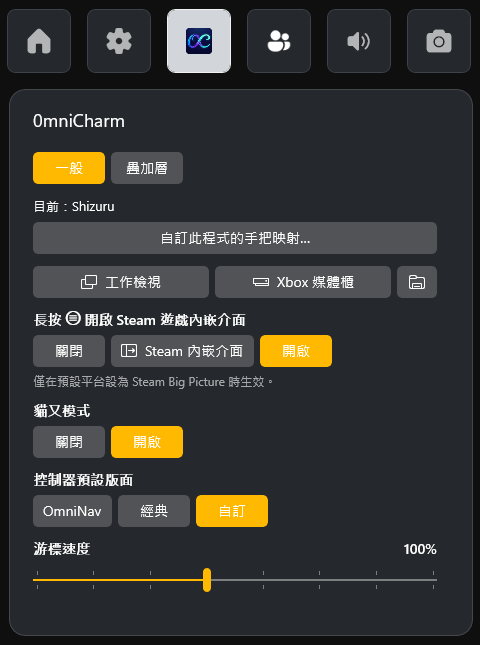
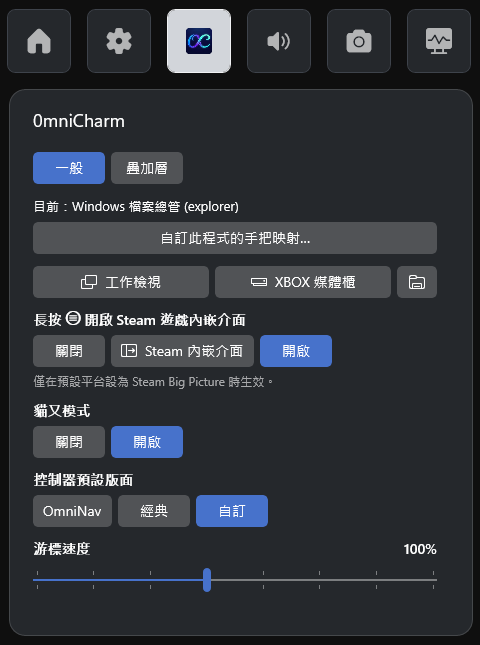
chore: Bump version to 4.5.0.0, add controls for XBOX Mode (FSE) entry & exit prompts, keep Game Bar's cursor in step with Nekomata Mode, match Windows' all-caps XBOX, unify Chinese punctuation, and refresh the READMEs & screenshots

diff --git a/README.md b/README.md
@@ -19,41 +19,41 @@
 
 ## 💡 What is OmniConsole?
 
-OmniConsole serves as your Windows 11 Xbox Mode (FSE) Home shell on PCs and handhelds (ROG Xbox Ally X, etc.), with an OmniCharm Game Bar widget, Steam shortcuts, and Nekomata Mode to turn your gamepad into keyboard and mouse, tailored per app, so everything stays on the gamepad.
+OmniConsole serves as your Windows 11 XBOX Mode (FSE) Home shell on PCs and handhelds (ROG Xbox Ally X, etc.), with an OmniCharm Game Bar widget, Steam shortcuts, and Nekomata Mode to turn your gamepad into keyboard and mouse, tailored per app, so everything stays on the gamepad.
 
-Whenever Xbox Mode (FSE) activates, OmniConsole launches your configured gaming platform. Any platform can be your Xbox Mode (FSE) Home — Steam, Xbox, Epic, Armoury Crate SE, Playnite, or anything you add.
+Whenever XBOX Mode (FSE) activates, OmniConsole launches your configured gaming platform. Any platform can be your XBOX Mode (FSE) Home — Steam, XBOX, Epic, Armoury Crate SE, Playnite, or anything you add.
 
-- **On boot**: With "Enter Xbox mode (FSE) on startup" enabled, your gaming platform launches automatically at boot.
-- **During use**: Press the **Xbox button**, then select **"Home"** in Game Bar to launch your gaming platform, or **"Library"** to open OmniConsole Settings.
+- **On boot**: With "Enter XBOX mode (FSE) on startup" enabled, your gaming platform launches automatically at boot.
+- **During use**: Press the **XBOX button**, then select **"Home"** in Game Bar to launch your gaming platform, or **"Library"** to open OmniConsole Settings.
 
 ---
 
 ## ✨ Features
 
-- **Automatic platform launch** – Your configured gaming platform launches automatically whenever Xbox Mode (FSE) activates.
-- **Automatic Xbox Mode (FSE) entry** – When you launch OmniConsole outside Xbox Mode (FSE) (e.g., from the Start Menu), it automatically triggers the Xbox Mode (FSE) entry dialog.
-- **Multi-platform support** – Built-in support for **Steam Big Picture**, **Xbox App**, **Epic Games Store**, **Armoury Crate SE**, and **Playnite Fullscreen**.
+- **Automatic platform launch** – Your configured gaming platform launches automatically whenever XBOX Mode (FSE) activates.
+- **Automatic XBOX Mode (FSE) entry** – When you launch OmniConsole outside XBOX Mode (FSE) (e.g., from the Start Menu), it automatically triggers the XBOX Mode (FSE) entry dialog.
+- **Multi-platform support** – Built-in support for **Steam Big Picture**, **XBOX App**, **Epic Games Store**, **Armoury Crate SE**, and **Playnite Fullscreen**.
 - **Custom platform support (Experimental)** – Add your own platforms via Protocol URI, executable path, or Packaged App (MSIX / APPX), with an optional card cover image. Launch arguments are available when using the executable path type.
 - **Platform import & export** – Share custom platform configurations as JSON, with per-user install paths saved as portable environment variables so a shared platform works on any console. Right-click or long-press a card to export; use the Import button to import shared configurations.
 - **Community platforms** – Browse platform definitions shared by the community on GitHub, right inside the app. Search by name or submitter, preview each one's cover and launch details, and add it with a click.
 - **Gamepad-compatible file picker** – A custom-built file picker that replaces the system FileOpenPicker (which does not support gamepad input), letting you browse for executables and cover images with a controller. A "Browse (Windows)" button is also available for users who prefer the system file picker.
-- **Card-grid settings UI** – Large icon cards designed for large-screen and handheld use, operable with **mouse**, **touch**, or **Xbox controller**.
+- **Card-grid settings UI** – Large icon cards designed for large-screen and handheld use, operable with **mouse**, **touch**, or **XBOX controller**.
 - **Phantom Glass backgrounds** – A frosted glass background that softly blurs and tints your desktop wallpaper behind the app. Choose from **Phantom Glass**, **Phantom Glass Deep**, or the solid **Phantom Classic** in Settings.
 - **Fluent motion throughout** – The Launch screen and Settings glide in with smooth entrance animations, and every move between screens flows with a transition.
 - **Game Bar integration** – Game Bar's **"Home"** button launches your gaming platform; **"Library"** opens OmniConsole Settings.
-- **Troubleshoot page** – A dedicated page for Xbox Mode (FSE) recovery: restarts Game Bar to fix issues such as the "Restart for better performance" dialog not appearing, then enters Xbox Mode (FSE).
+- **Troubleshoot page** – A dedicated page for XBOX Mode (FSE) recovery: restarts Game Bar to fix issues such as the "Restart for better performance" dialog not appearing, then enters XBOX Mode (FSE).
 - **Environment snapshot** – An "About" page that captures your system, hardware, and OmniConsole health status, with one-click copy as a Markdown report for easy bug reporting.
-- **Gamepad support** – Navigate with **D-Pad** or **Left Stick**; **A** to confirm, **B** to exit, **LB/RB** to switch category tabs, **Y** to add a custom platform, **X** to edit, and **Menu (☰)** to set the focused platform as default and launch it immediately (when running inside Xbox Mode (FSE)).
-- **OmniCharm widget** – A Game Bar widget for in-game quick access. Open **Task View**, the **Xbox Library**, **File Explorer**, or the **Steam Overlay** in one tap; toggle **Nekomata Mode**, controller layout preset, cursor speed, and the **Steam In-Game Overlay** (long-press ☰). File Explorer opens straight to **This PC**, and Nekomata Mode's built-in mapping already covers it, so you browse and open your files with the gamepad alone.
+- **Gamepad support** – Navigate with **D-Pad** or **Left Stick**; **A** to confirm, **B** to exit, **LB/RB** to switch category tabs, **Y** to add a custom platform, **X** to edit, and **Menu (☰)** to set the focused platform as default and launch it immediately (when running inside XBOX Mode (FSE)).
+- **OmniCharm widget** – A Game Bar widget for in-game quick access. Open **Task View**, the **XBOX Library**, **File Explorer**, or the **Steam Overlay** in one tap; toggle **Nekomata Mode**, controller layout preset, cursor speed, and the **Steam In-Game Overlay** (long-press ☰). File Explorer opens straight to **This PC**, and Nekomata Mode's built-in mapping already covers it, so you browse and open your files with the gamepad alone.
 - **Gamepad Steam shortcuts** – The gamepad **⧉** button controls Steam Big Picture shortcuts: short press opens the **Steam Menu**, long press opens the **Quick Access Menu**. Long press **☰** in-game to open the **Steam In-Game Overlay**.
 - **Nekomata Mode — gamepad as mouse and keyboard, custom per-app mapping** – When on, your customized profiles take over, while common apps such as browsers, File Explorer, the Windows file picker, Steam, Epic Games Store, EA Desktop, Playnite Desktop, and Discord run on OmniConsole's ready-made mapping, which you can customize too. Nekomata weaves a charm for each app, remapping XInput controls (A/B/X/Y, LB/RB, LT/RT, LS/RS, D-pad, both sticks) to a keyboard key, modifier combo, mouse button, scroll wheel, cursor movement, scrolling, arrow keys, or WASD, with three controller layouts to choose from: **OmniNav**, **Classic**, and a **Custom Layout** you define yourself (Pro). Each app's charm can also **raise the mapping service priority** with **Nekomata Boost** for demanding games, give any key a **hold-to-repeat** toggle, and **prevent double input** by blocking the app's own native XInput and DirectInput signals to keep them from interfering with the remapped keyboard and mouse. Open the editor from the OmniCharm widget's "Customize gamepad mapping for this app…" button.
 - **Custom controller layout (Pro)** – Define your own default layout alongside OmniNav and Classic. Choose **Custom** under **Settings → Advanced → Nekomata → Controller Layout Preset**, then click **Edit…** to arrange the controller's inputs. Apps covered by built-in mapping pick it up right away, and every new app profile starts from it. The OmniCharm widget can switch to it as well.
 - **Administrator app support (Pro)** – Gamepad mappings reach apps and games that run as an administrator. Install it from **Settings → Advanced → Nekomata** and approve the administrator prompt, and Nekomata Mode extends to those apps, with the OmniCharm widget opening the mapping editor for them too.
 - **Screen keyboards from any button (Pro)** – Windows brings up a screen keyboard from Game Bar. Pro adds a direct route: assign one to a controller button and it opens without interrupting what you are doing. Pick the **Gamepad keyboard**, which you type on with the controller itself, or the classic **On-screen keyboard**, which you point at with the cursor. The On-screen keyboard also requires Administrator App Support.
-- **Nekomata Mode on the ROG Ally family (Pro)** – These consoles ship with the manufacturer's own gamepad mapping, and Nekomata defers to it. Pro makes that a choice: turn it on under **Settings → Advanced**, then set **Control Mode** to **Gamepad** in Command Center. Everything Nekomata does on a desktop she does here too. It starts out off, and asks for confirmation the first time.
+- **Nekomata Mode on the ROG Ally family (Pro)** – These consoles ship with the manufacturer's own gamepad mapping, and Nekomata defers to it. Pro makes that a choice: turn it on under **Settings → Advanced**, then set **Control Mode** to **Gamepad** in Command Center. Everything Nekomata does on a desktop she does here too.
 - **Performance overlay controls (Pro)** – Game Bar comes with Microsoft's own **Performance** widget for watching your framerate and system usage while you play. Pro adds a separate set of controls for adjusting RivaTuner Statistics Server's on-screen display from inside OmniConsole. Under **Settings → Advanced → Performance Overlay** you can turn the on-screen display on or off, show framerate statistics, add a shadow behind the text, scale it up, and set a framerate limit. The OmniCharm widget carries the same controls on its **Overlay** tab, so they are within reach while a game is running. Requires Administrator App Support and RivaTuner Statistics Server.
 - **Dedicated Settings entry** – A separate "**OmniConsole Settings**" entry in All Apps lets you change your default platform anytime.
-- **Native Xbox Mode (FSE) integration** – Registered as a Windows 11 Xbox Mode (FSE) Home App through the official API.
+- **Native XBOX Mode (FSE) integration** – Registered as a Windows 11 XBOX Mode (FSE) Home App through the official API.
 - **In-app updates** – Automatic checks for the latest GitHub releases, with download and install built into the Advanced settings page.
 - **Multilingual UI** – English, Traditional Chinese (繁體中文), and Simplified Chinese (简体中文) built in, along with community-contributed languages: on the Advanced settings page, click **Manage** next to **Community Languages** to browse, download, and update them for both the main app and the OmniCharm widget at once. They stay up to date automatically across versions.
 - **OmniConsole Pro** – A **Pro** page in Settings. OmniConsole is a personal interest project, written and maintained by a solo developer in their own free time, and your support keeps it going. The page carries the link and is where you activate it, and it shows who the license is for, along with the licenses on this console.
@@ -62,11 +62,11 @@ Whenever Xbox Mode (FSE) activates, OmniConsole launches your configured gaming 
 
 ## ⚙ Prerequisites
 
-OmniConsole requires **Windows 11 24H2 (Build 26100.7019)** or later, along with the **Full Handheld edition** of Xbox Mode (FSE). Microsoft is gradually rolling out a Limited PC edition to regular PCs — use [Xbox Full Screen Experience Tool (XFSET)](https://github.com/8bit2qubit/XboxFullScreenExperienceTool) to switch to the Full Handheld edition.
+OmniConsole requires **Windows 11 24H2 (Build 26100.7019)** or later, along with the **Full Handheld edition** of XBOX Mode (FSE). Microsoft is gradually rolling out a Limited PC edition to regular PCs — use [Xbox Full Screen Experience Tool (XFSET)](https://github.com/8bit2qubit/XboxFullScreenExperienceTool) to switch to the Full Handheld edition.
 
 - **Desktops, Laptops, Tablets & Handhelds without the Full Handheld edition**: Run XFSET first.
 - **Native Handheld Devices** (e.g., ROG Xbox Ally series): Already on the Full Handheld edition — install OmniConsole directly.
-- **Xbox Controller Required**: Game Bar, Xbox Mode (FSE), and all gamepad features require an Xbox-compatible (XInput) controller with an Xbox button.
+- **XBOX Controller Required**: Game Bar, XBOX Mode (FSE), and all gamepad features require an XBOX-compatible (XInput) controller with an XBOX button.
 
 ---
 
@@ -92,32 +92,32 @@ Download the latest release from the [**Releases Page**](https://github.com/8bit
 OmniConsole will present the Settings UI on **first launch** or **after app updates**. You can also open it manually anytime from the Start Menu:
 
 1.  Open **"OmniConsole Settings"** from the Start Menu (All Apps).
-2.  Select your preferred gaming platform from the card grid using a **mouse**, **touch**, or **Xbox controller** (**D-Pad/Left Stick** to navigate in all four directions, **A** to confirm):
+2.  Select your preferred gaming platform from the card grid using a **mouse**, **touch**, or **XBOX controller** (**D-Pad/Left Stick** to navigate in all four directions, **A** to confirm):
     - **Steam Big Picture**
-    - **Xbox App**
+    - **XBOX App**
     - **Epic Games Store**
     - **Armoury Crate SE**
     - **Playnite Fullscreen**
 
     Your selection is saved automatically. Press **B** on your controller or click/press **Exit** to finish.
 
-### 3. [Critical] Set as Xbox Mode (FSE) Home App
+### 3. [Critical] Set as XBOX Mode (FSE) Home App
 
 <p>
-  <img src="docs/images/fse-settings.png" alt="Xbox mode (FSE) Settings" height="221">
+  <img src="docs/images/fse-settings.png" alt="XBOX mode (FSE) Settings" height="221">
 </p>
 
-1.  Go to **Windows Settings → Gaming → Xbox mode (FSE)**.
+1.  Go to **Windows Settings → Gaming → XBOX mode (FSE)**.
 2.  Set "Choose home app" to **OmniConsole**.
-3.  Enable **"Enter Xbox mode (FSE) on startup"**.
+3.  Enable **"Enter XBOX mode (FSE) on startup"**.
 
 ### 4. Done!
 
 Your gaming platform now launches via any of these entry points:
 
-- **Game Bar**: Press the **Xbox button**, then select **"Home"** to launch your gaming platform, or **"Library"** to open OmniConsole Settings.
-- **Boot**: Enable **"Enter Xbox mode (FSE) on startup"** for automatic launch at boot.
-- **Start Menu**: Launch OmniConsole directly to automatically activate Xbox Mode (FSE).
+- **Game Bar**: Press the **XBOX button**, then select **"Home"** to launch your gaming platform, or **"Library"** to open OmniConsole Settings.
+- **Boot**: Enable **"Enter XBOX mode (FSE) on startup"** for automatic launch at boot.
+- **Start Menu**: Launch OmniConsole directly to automatically activate XBOX Mode (FSE).
 
 ### 5. Updating OmniConsole
 
@@ -130,10 +130,10 @@ Already have OmniConsole installed? Update from within **OmniConsole Settings**:
 
 ## 🔄 How to Revert
 
-> ⚠ **Change the Xbox Mode (FSE) Home App setting _before_ uninstalling OmniConsole.** If OmniConsole is removed while it is still set as the Xbox Mode (FSE) Home App, Windows **Task View will stop working** on some builds. This is a bug in Windows itself.
+> ⚠ **Change the XBOX Mode (FSE) Home App setting _before_ uninstalling OmniConsole.** If OmniConsole is removed while it is still set as the XBOX Mode (FSE) Home App, Windows **Task View will stop working** on some builds. This is a bug in Windows itself.
 
-1. Go to **Windows Settings → Gaming → Xbox mode (FSE)**.
-2. Set "Choose home app" to **Xbox** or **None**.
+1. Go to **Windows Settings → Gaming → XBOX mode (FSE)**.
+2. Set "Choose home app" to **XBOX** or **None**.
 3. Right-click **OmniConsole** in the Start Menu and select **Uninstall**, or go to **Windows Settings → Apps → Installed apps** to uninstall it.
 4. Go to **Windows Settings → Apps → Installed apps** and uninstall **OmniCharm** (the widget does not appear in the Start Menu).
 
@@ -141,11 +141,11 @@ Already have OmniConsole installed? Update from within **OmniConsole Settings**:
 
 ## 🛠 Troubleshooting
 
-If you run into issues caused by a Windows bug, such as Game Bar failing to open or the "Restart for better performance" dialog not appearing when entering Xbox Mode (FSE):
+If you run into issues caused by a Windows bug, such as Game Bar failing to open or the "Restart for better performance" dialog not appearing when entering XBOX Mode (FSE):
 
 1. Open **OmniConsole Settings** from the Start Menu.
 2. Navigate to the **Troubleshoot** tab using the left menu.
-3. Click the **"Run"** button next to **"Restart Game Bar & Enter Xbox Mode (FSE)"**. This restarts Game Bar and enters Xbox Mode (FSE); once Game Bar is restarted, the dialog appears as expected.
+3. Click the **"Run"** button next to **"Restart Game Bar & Enter XBOX Mode (FSE)"**. This restarts Game Bar and enters XBOX Mode (FSE); once Game Bar is restarted, the dialog appears as expected.
 
 ---
 
